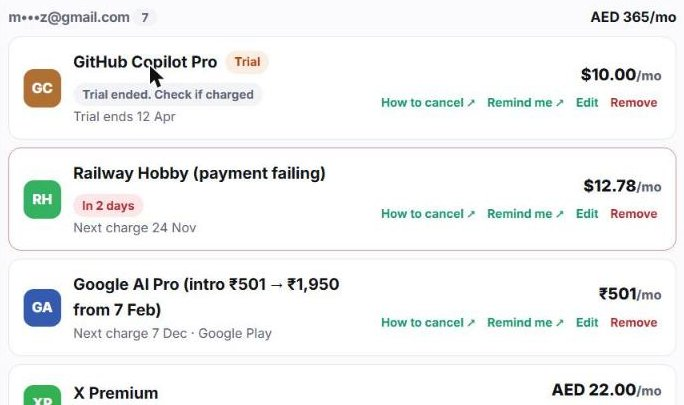
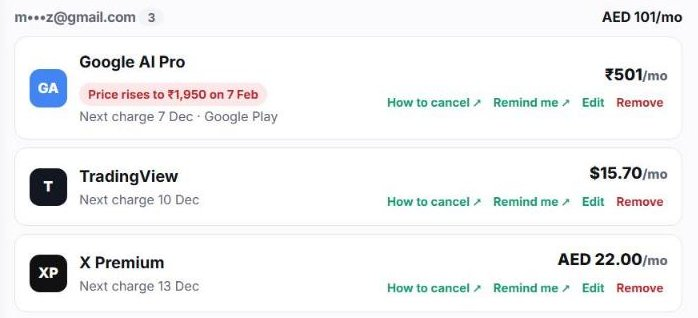
Landing image and share card: real Connect Gmail result (AED 101/mo)

diff --git a/index.html b/index.html
@@ -118,8 +118,8 @@
     </div>
 
     <figure class="card real-shot">
-      <img src="img/real-list.jpg" width="684" height="405" alt="A real SubSweep list: GitHub Copilot trial ended, Railway payment failing, Google AI Pro rising from ₹501 to ₹1,950, X Premium. Total AED 365 a month.">
-      <figcaption>A real SubSweep list from one inbox: <strong>AED 365 a month</strong>. Email and card details masked.</figcaption>
+      <img src="img/real-list.jpg" width="698" height="318" alt="A real SubSweep list found by Connect Gmail: Google AI Pro ₹501 a month, rising to ₹1,950 on 7 Feb; TradingView $15.70; X Premium AED 22. Total AED 101 a month.">
+      <figcaption>Found by Connect Gmail in one real inbox: <strong>AED 101 a month</strong>, and a price rise coming. Email masked.</figcaption>
     </figure>
   </div>
 
